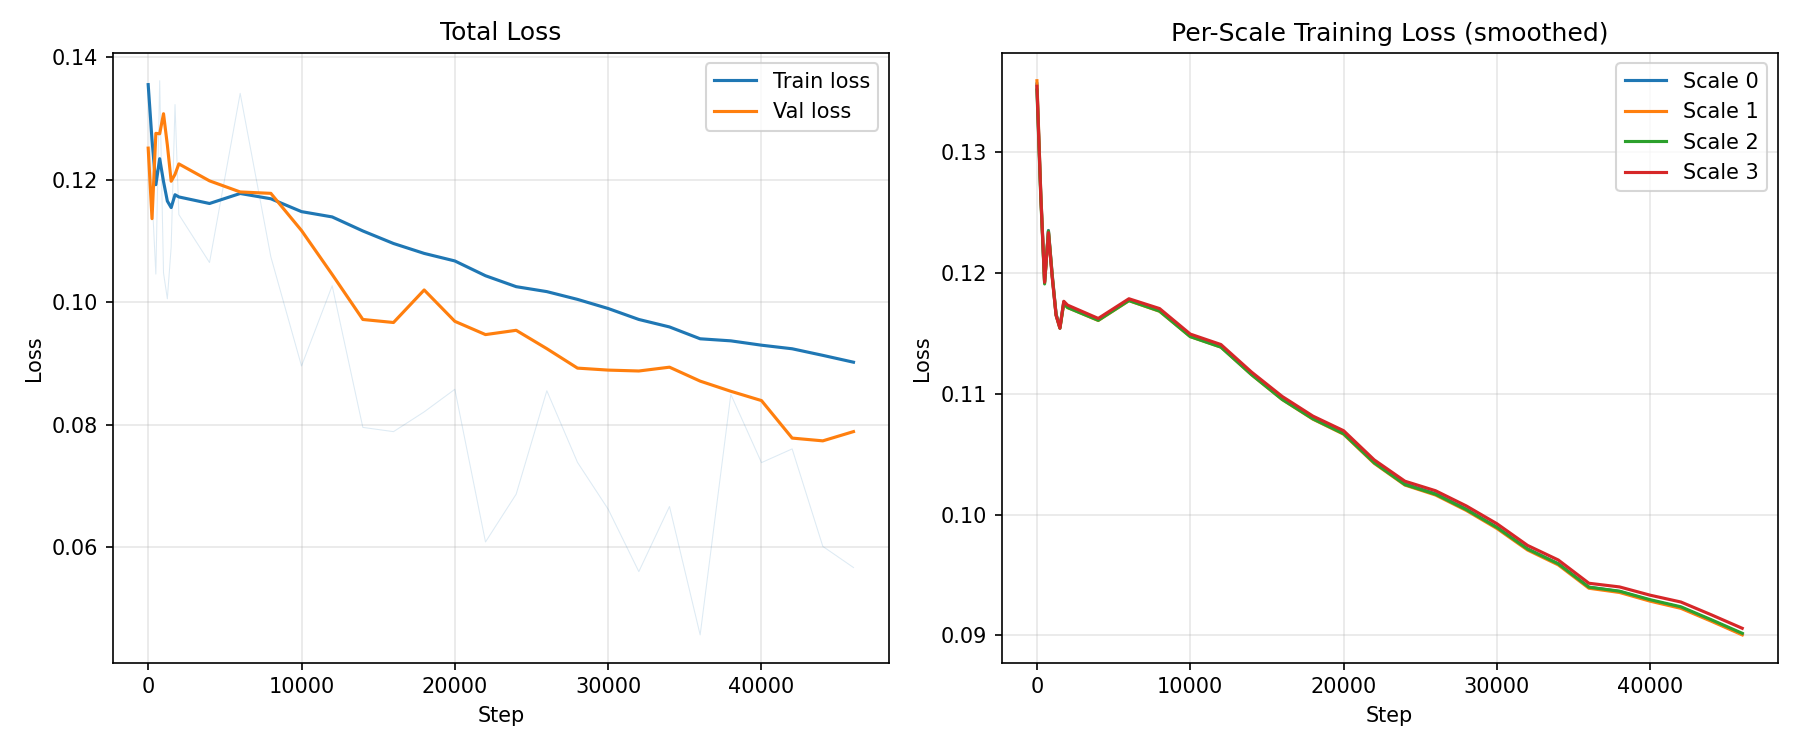
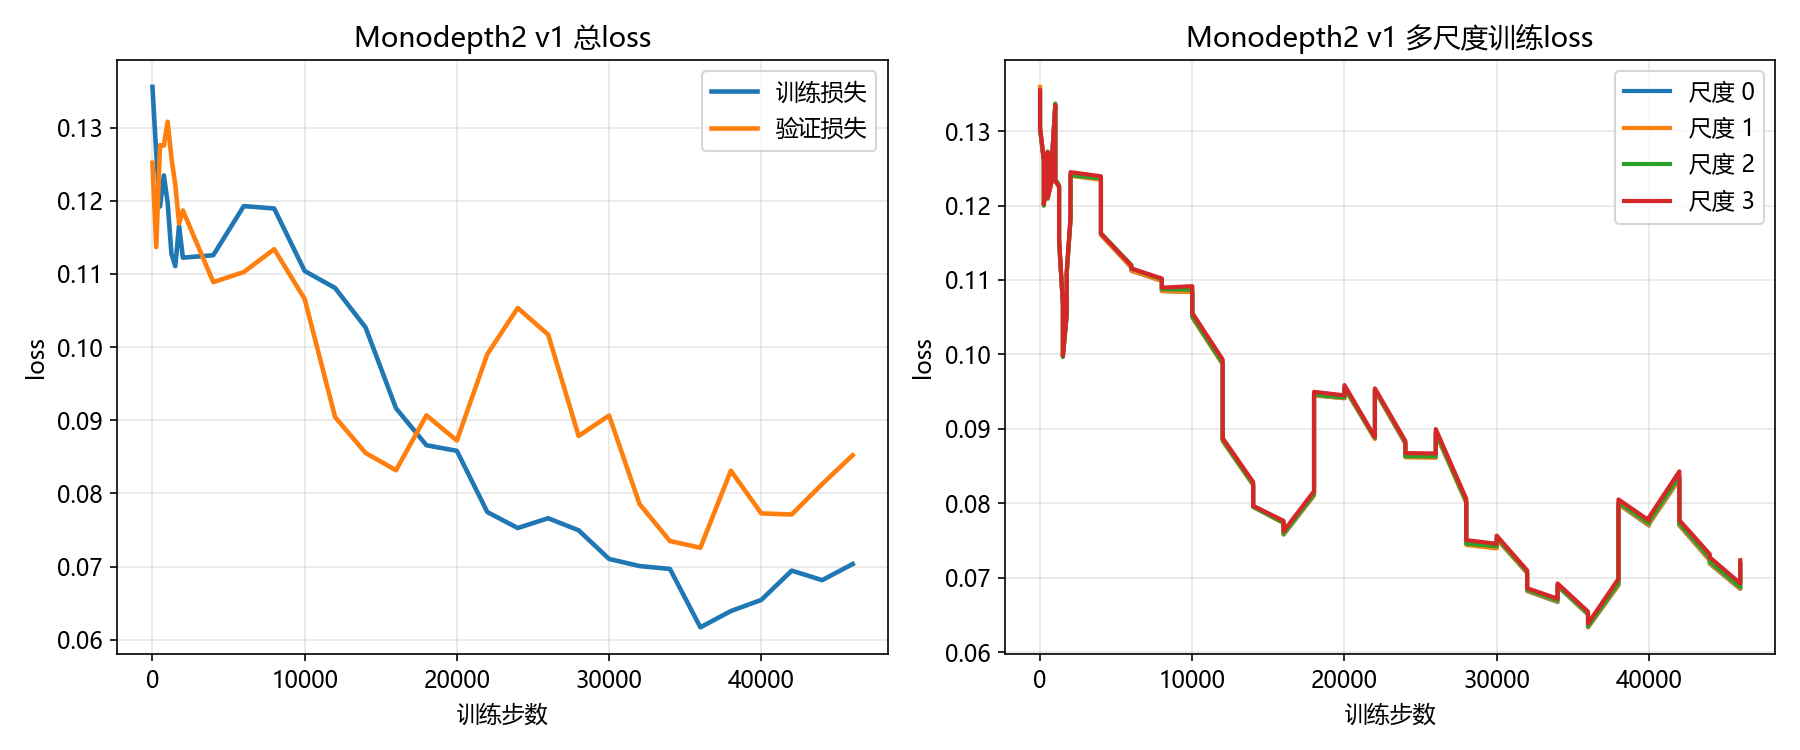
Update demo scripts and training results

diff --git a/scripts/obstacle_warning_video.py b/scripts/obstacle_warning_video.py
@@ -32,8 +32,8 @@ def parse_args():
     parser.add_argument("--roi_x1", type=float, default=0.33)
     parser.add_argument("--roi_x2", type=float, default=0.67)
     parser.add_argument("--roi_y1", type=float, default=0.40)
-    parser.add_argument("--roi_y2", type=float, default=0.78)
-    parser.add_argument("--near_percentile", type=float, default=88.0)
+    parser.add_argument("--roi_y2", type=float, default=0.88)
+    parser.add_argument("--near_percentile", type=float, default=85.0)
     parser.add_argument("--caution_ratio", type=float, default=0.08)
     parser.add_argument("--danger_ratio", type=float, default=0.18)
     parser.add_argument(

diff --git a/scripts/obstacle_warning_image.py b/scripts/obstacle_warning_image.py
@@ -36,11 +36,11 @@ def parse_args():
     parser.add_argument("--roi_x1", type=float, default=0.33)
     parser.add_argument("--roi_x2", type=float, default=0.67)
     parser.add_argument("--roi_y1", type=float, default=0.40)
-    parser.add_argument("--roi_y2", type=float, default=0.78)
+    parser.add_argument("--roi_y2", type=float, default=0.88)
     parser.add_argument(
         "--near_percentile",
         type=float,
-        default=88.0,
+        default=85.0,
         help="Pixels above this disparity percentile are treated as near.",
     )
     parser.add_argument(
